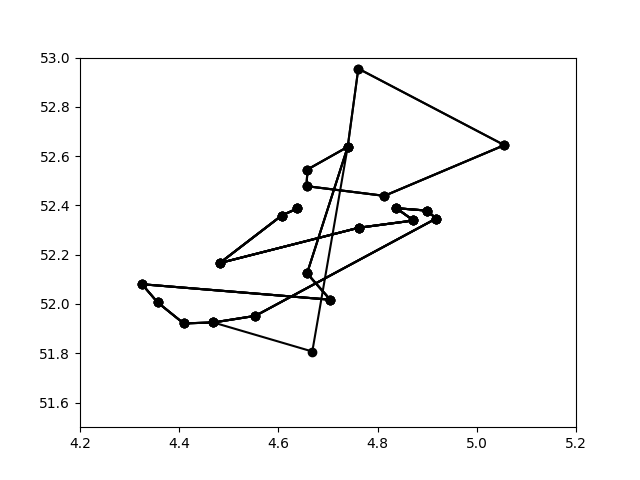
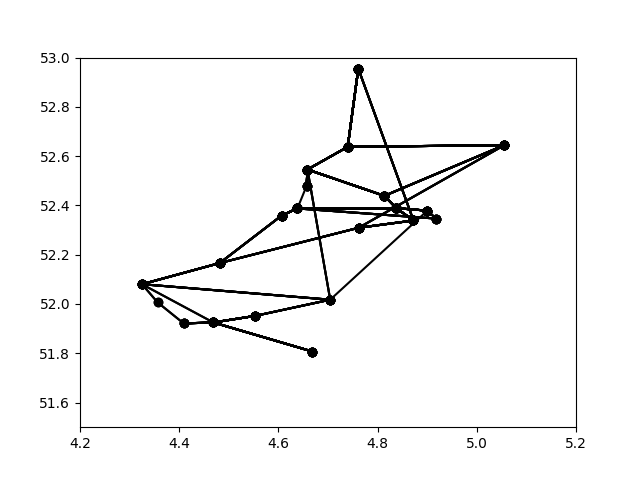
started hillclimber

diff --git a/code/algorithms/hillclimber.py b/code/algorithms/hillclimber.py
@@ -1,0 +1,45 @@
+import copy
+import random
+
+class HillClimber:
+    """
+    The HillClimber class changes a random route in the network to a random valid route. Each improvement or
+    equivalent solution is kept for the next iteration.
+    """
+    def __init__(self, random_start):
+
+        self.hc_start = copy.deepcopy(random_start)
+
+        #self.score = random_start.get_score()
+
+    def change_single_route(self):
+        """
+        Change a single route with another random route
+        """
+        # eerst een random key pakken 
+        for key in random.sample(self.hc_start.keys(), 1):
+
+            # dan die random key verwijderen
+            del self.hc_start[key]
+        
+        # dan een nieuwe route toevoegen
+
+        pass
+
+    def change_total_routes(self, new_routes):
+        pass
+
+    def compare_score(self, new_routes):
+        """
+        Checks and accepts better solutions than the current solution.
+        """
+        new_score = new_routes.get_score()
+        old_score = self.score
+
+        if new_score > old_score:
+            self.score = new_score
+            self.hc_start = new_routes
+
+    def run(self, iterations):
+        pass
+

diff --git a/main.py b/main.py
@@ -1,5 +1,6 @@
 from code.classes import network, routes
 from code.algorithms import random
+from code.algorithms import hillclimber
 from code.classes.routes import Routes
 from code.visualisations import vision
 import matplotlib.pyplot as plt
@@ -16,3 +17,6 @@ if __name__ == "__main__":
 
     # Create visualisation from our results
     vision = vision.print_stations(network.stations, random_routes)
+
+    # Run HillClimber
+    climber = hillclimber.HillClimber(random_routes)

diff --git a/code/algorithms/random.py b/code/algorithms/random.py
@@ -79,7 +79,7 @@ def get_random_routes(network, connections):
     # bereken K
     p = len(connections_used)/len(copy_connections)
     K = p*10000 - (counter*100 + total_time)
-    print(K)
+    #print(K)
     #stations = []
     #routes[counter] = Routes(stations, K)
 
